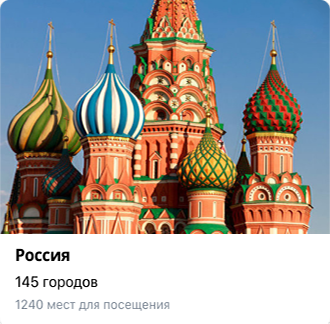
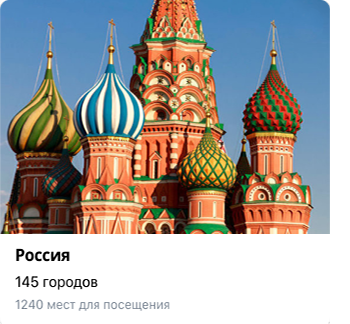
dan

diff --git a/src/panels/css/Main.css b/src/panels/css/Main.css
@@ -15,7 +15,7 @@
 }
 
 .c3 {
-    background-image: url(../../img/ros1.png) no repeat;
+    background-image: url(../../img/ros1.png);
     width: 351px;
     height: 324px;
    }
